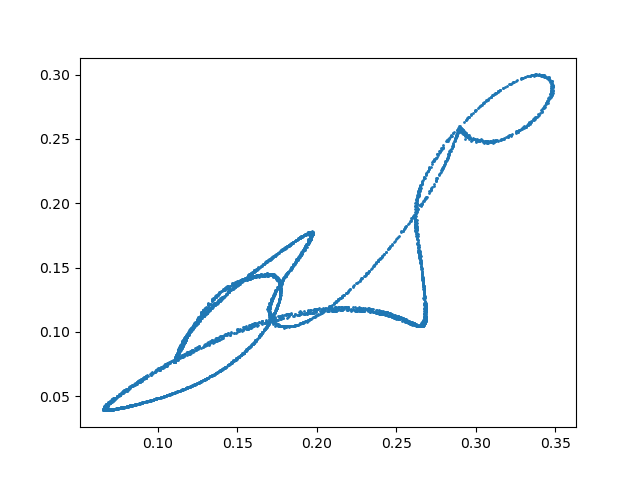
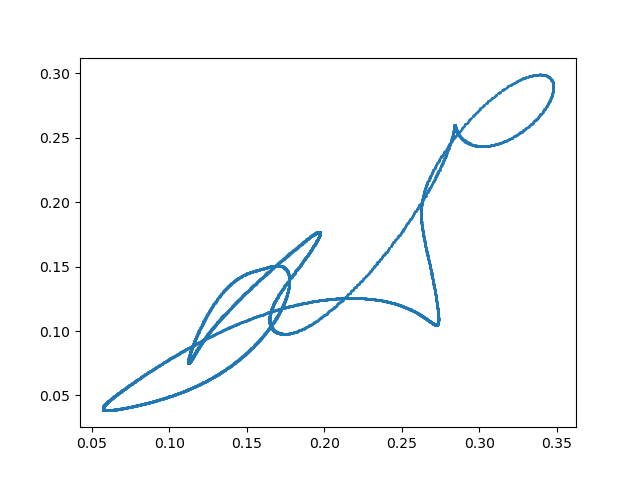
ready for SaS beta0.423

diff --git a/code/stagger_and_step_sync.cpp b/code/stagger_and_step_sync.cpp
@@ -30,16 +30,16 @@ std::tuple<Eigen::VectorXd, Eigen::VectorXd, Eigen::VectorXcd> calc_next(ShellMo
 int main(){
     auto start = std::chrono::system_clock::now(); // 計測開始時間
     const double nu = 0.00018;
-    const double beta = 0.421;
+    const double beta = 0.423;
     const std::complex<double> f = std::complex<double>(1.0,1.0) * 5.0 * 0.001;
     const double dt = 0.01;
     const double t_0 = 0;
     const double t = 5e+4;
     const double latter = 1;
-    const double check = 500;
-    const double progress = 10;
-    int limit = 1e+6; //limitation of trial of stagger and step
-    Eigen::VectorXcd x_0 = npy2EigenVec("../../initials/beta0.421_nu0.00018_804period_dt0.01eps0.005.npy");
+    const double check = 1000;
+    const double progress = 100;
+    int limit = 1e+5; //limitation of trial of stagger and step
+    Eigen::VectorXcd x_0 = npy2EigenVec("../../initials/beta0.423_nu0.00018_1229period_dt0.01eps0.003.npy");
     ShellModel SM(nu, beta, f, dt, t_0, t, latter, x_0);
     Eigen::MatrixXcd Dummy_Laminar(x_0.rows()+1, 1); //dummy matrix to use LongLaminar Class
     LongLaminar LL(nu, beta, f, dt, t_0, t, latter, x_0, Dummy_Laminar, 0.01, 100, check, progress, 8);
@@ -48,21 +48,21 @@ int main(){
     //make pairs of shells to observe phase difference(num begins from 1)
     std::vector<std::tuple<int, int, double>> sync_pairs;
     sync_pairs.push_back(std::make_tuple(4, 7, 2));
-    sync_pairs.push_back(std::make_tuple(4, 10, 2));
-    sync_pairs.push_back(std::make_tuple(4, 13, 2));
-    sync_pairs.push_back(std::make_tuple(7, 10, 1.1));
-    sync_pairs.push_back(std::make_tuple(7, 13, 1.1));
+    sync_pairs.push_back(std::make_tuple(4, 10, 2.1));
+    sync_pairs.push_back(std::make_tuple(4, 13, 2.1));
+    sync_pairs.push_back(std::make_tuple(7, 10, 1.2));
+    sync_pairs.push_back(std::make_tuple(7, 13, 1.2));
     sync_pairs.push_back(std::make_tuple(10, 13, 3.5E-2));
 
-    sync_pairs.push_back(std::make_tuple(5, 8, 8));
-    sync_pairs.push_back(std::make_tuple(5, 11, 8));
-    sync_pairs.push_back(std::make_tuple(5, 14, 8));
+    sync_pairs.push_back(std::make_tuple(5, 8, 1.9));
+    sync_pairs.push_back(std::make_tuple(5, 11, 1.9));
+    sync_pairs.push_back(std::make_tuple(5, 14, 1.9));
     sync_pairs.push_back(std::make_tuple(8, 11, 0.47));
     sync_pairs.push_back(std::make_tuple(8, 14, 0.47));
     sync_pairs.push_back(std::make_tuple(11, 14, 7.5E-3));
 
-    // sync_pairs.push_back(std::make_tuple(6, 9, 1.6));
-    // sync_pairs.push_back(std::make_tuple(6, 12, 1.6));
+    sync_pairs.push_back(std::make_tuple(6, 9, 1.7));
+    sync_pairs.push_back(std::make_tuple(6, 12, 1.7));
     sync_pairs.push_back(std::make_tuple(9, 12, 0.16));
 
     // sync_pairs.push_back(std::make_tuple(9, 12, 3.2)); // dummy to check all trajectory

diff --git a/code/good_initialvalue.cpp b/code/good_initialvalue.cpp
@@ -18,19 +18,19 @@ int main(){
     auto start = std::chrono::system_clock::now(); // 計測開始時間
     // generating laminar sample !DO NOT CHANGE!
     double nu = 0.00018;
-    double beta = 0.421;
+    double beta = 0.423;
     std::complex<double> f = std::complex<double>(1.0,1.0) * 5.0 * 0.001;
     double ddt = 0.01;
     double t_0 = 0;
-    double t = 10000;
-    double latter = 20;
-    Eigen::VectorXcd x_0 = npy2EigenVec<std::complex<double>>("../../initials/beta0.42_nu0.00018_3830period_dt0.01.npy");
+    double t = 500;
+    double latter = 1;
+    Eigen::VectorXcd x_0 = npy2EigenVec<std::complex<double>>("../../initials/beta0.423_nu0.00018_1000period_dt0.01eps0.01.npy");
     ShellModel SM(nu, beta, f, ddt, t_0, t, latter, x_0);
-    Eigen::MatrixXcd laminar = npy2EigenMat<std::complex<double>>("../../generated_lam/sync_gen_laminar_beta_0.42nu_0.00018_dt0.01_50000period1000check100progress10^-6-10^-3perturb_4-7_4-10_4-13_7-10_7-13_10-13_5-8_5-11_5-14_8-11_8-14_11-14_6-9_6-12_9-12.npy");
-    int numRows = laminar.cols() / 1000;
+    Eigen::MatrixXcd laminar = SM.get_trajectory_();
+    int numRows = laminar.cols() / 10;
     Eigen::MatrixXcd laminar_sample(laminar.rows(), numRows);
     for (int i = 0; i < numRows; i++){
-        int colIdx = 1000 * i;
+        int colIdx = 10 * i;
         laminar_sample.col(i) = laminar.col(colIdx);
     }
     // undo comment out if you want to see laminar sample
@@ -44,15 +44,15 @@ int main(){
     plt::save("../../laminar_sample.png");
 
     // set up for search
-    t=1000;
+    t=2000;
     latter = 1;
     nu = 0.00018;
     beta = 0.423;
     ddt = 0.01;
-    x_0 = npy2EigenVec<std::complex<double>>("../../initials/beta0.423_nu0.00018_1402period_dt0.01eps0.02.npy");
+    x_0 = npy2EigenVec<std::complex<double>>("../../initials/beta0.423_nu0.00018_1229period_dt0.01eps0.003.npy");
     int num_of_candidates = omp_get_max_threads();
     int skip = 100;
-    double epsilon = 1E-2;
+    double epsilon = 3E-3;
     int threads = omp_get_max_threads();
     std::cout << threads << "threads" << std::endl;
 
@@ -65,7 +65,7 @@ int main(){
         std::cout << "現在"  << i+1 << "回" <<std::endl;
         initials.col(0) = LL.get_x_0_();
         for(int j = 1; j < num_of_candidates - 1; j++){
-            initials.col(j) = LL.perturbation_(LL.get_x_0_(), -10, 1);
+            initials.col(j) = LL.perturbation_(LL.get_x_0_(), -10, -4);
         }
         Eigen::VectorXd durations(num_of_candidates);
         #pragma omp parallel for num_threads(threads)

diff --git a/code/phase_diff.cpp b/code/phase_diff.cpp
@@ -28,14 +28,15 @@ int shift(double pre_theta, double theta, int rotation_number);
 int main(){
     auto start = std::chrono::system_clock::now(); // 計測開始時間
     double nu = 0.00018;
-    double beta = 0.421;
+    double beta = 0.423;
     std::complex<double> f = std::complex<double>(1.0,1.0) * 5.0 * 0.001;
     double ddt = 0.01;
     double t_0 = 0;
-    double t = 800;
+    double t = 1000;
 
     double latter = 1;
     int threads = omp_get_max_threads();
+    Eigen::VectorXcd x_0 = npy2EigenVec("../../initials/beta0.423_nu0.00018_1229period_dt0.01eps0.003.npy");
 
     //make pairs of shells to observe phase difference(num begins from 1)
     std::vector<std::pair<int, int>> sync_pairs;
@@ -58,9 +59,6 @@ int main(){
     sync_pairs.push_back(std::make_pair(6, 12));
     sync_pairs.push_back(std::make_pair(9, 12));
 
-    
-    
-    Eigen::VectorXcd x_0 = npy2EigenVec("../../initials/beta0.421_nu0.00018_804period_dt0.01eps0.005.npy");
     ShellModel solver(nu, beta, f, ddt, t_0, t, latter, x_0);
     std::cout << "calculating trajectory" << std::endl;
     Eigen::MatrixXcd trajectory = solver.get_trajectory_(); //wide matrix

diff --git a/code/trajectory_observation.cpp b/code/trajectory_observation.cpp
@@ -20,9 +20,9 @@ int main(){
     std::complex<double> f = std::complex<double>(1.0,1.0) * 5.0 * 0.001;
     double ddt = 0.01;
     double t_0 = 0;
-    double t = 2000;
+    double t = 1000;
     double latter = 1;
-    Eigen::VectorXcd x_0 = npy2EigenVec("../../initials/beta0.423_nu0.00018_1433period_dt0.01eps0.05.npy");
+    Eigen::VectorXcd x_0 = npy2EigenVec("../../initials/beta0.423_nu0.00018_1000period_dt0.01eps0.02.npy");
     ShellModel solver(nu, beta, f, ddt, t_0, t, latter, x_0);
     Eigen::MatrixXcd trajectory = solver.get_trajectory_(); 
     // plot settings
